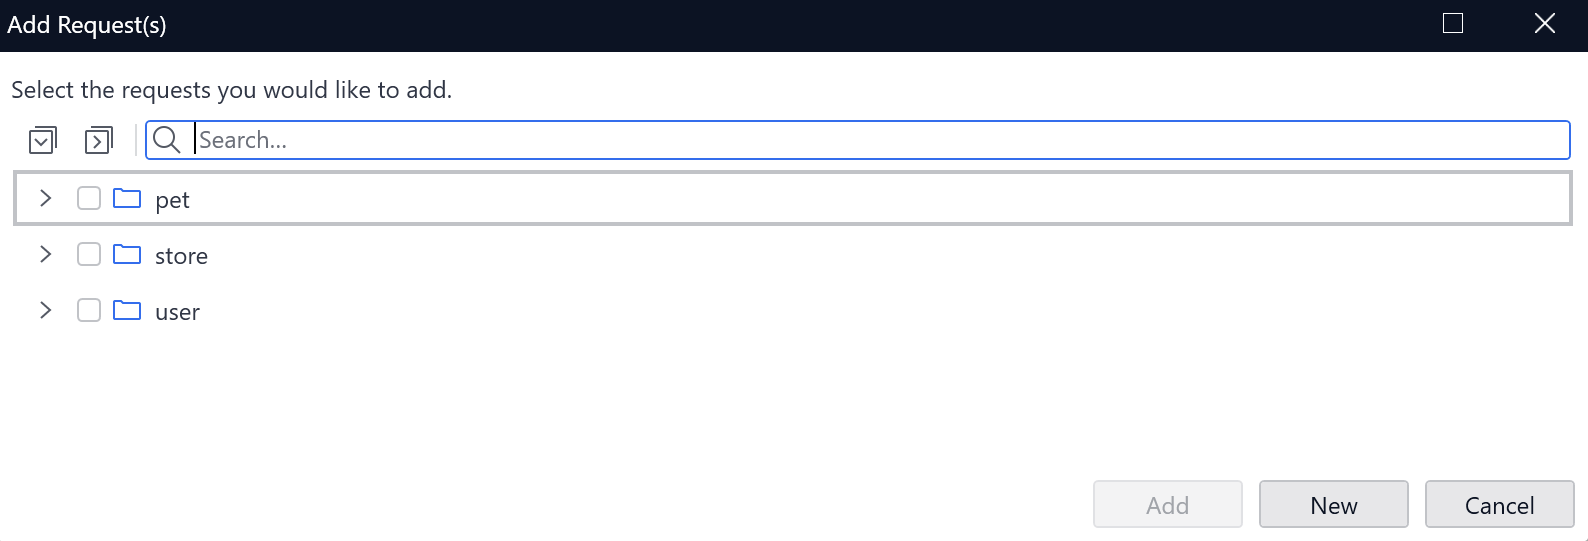
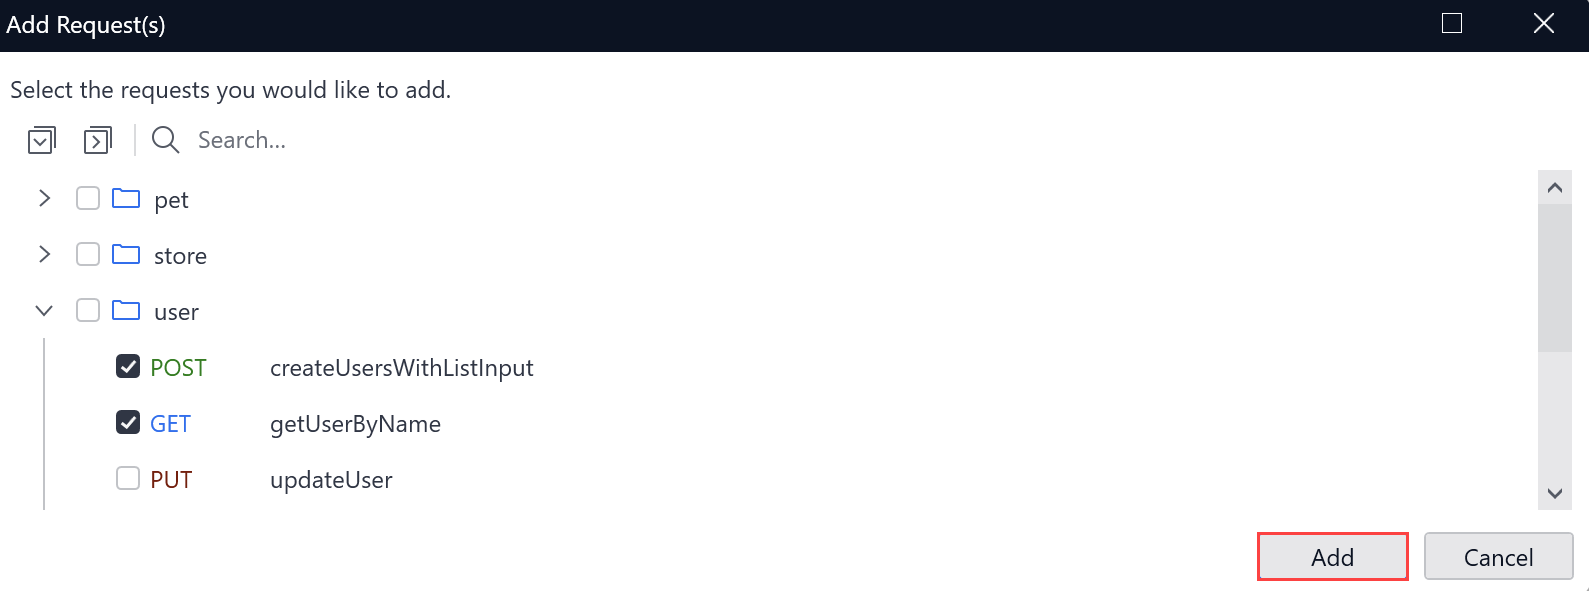
Update images

diff --git a/content/en/docs/refguide/modeling/integration/rest-services/consumed-rest-services/consumed-rest-service.md b/content/en/docs/refguide/modeling/integration/rest-services/consumed-rest-services/consumed-rest-service.md
@@ -96,11 +96,17 @@ You can visualize your request in the **Response** tab, then use the response to
 
 ### Import from OpenAPI/Swagger Contract {#open-api-import}
 
-To add more requests from your existing contract, click **Add Request**. Select the additional requests you want to add to the document, then click **Add**.
+To add more requests from your existing contract, do the following:
 
-{{< figure src="/attachments/refguide/modeling/integration/consumed-rest-service/add-request.png" class="no-border" >}}
+1. In the **Request** field, click **Add Request**:
 
-To create a new blank request, click **New**.
+    {{< figure src="/attachments/refguide/modeling/integration/consumed-rest-service/add-request-button.png" class="no-border" >}}
+
+2. In the **Add Request(s)** dialog box, select the additional requests you want to add to the document, then click **Add**.
+
+    {{< figure src="/attachments/refguide/modeling/integration/consumed-rest-service/add-request.png" class="no-border" >}}
+
+To create a new blank request, click **New** in the **Add Request(s)** dialog box.
 
 ### Authentication Methods {#authentication}
 
